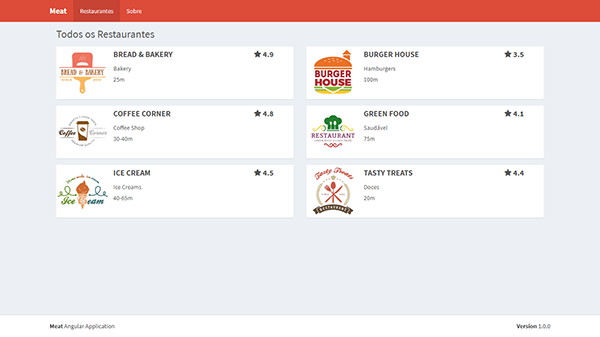
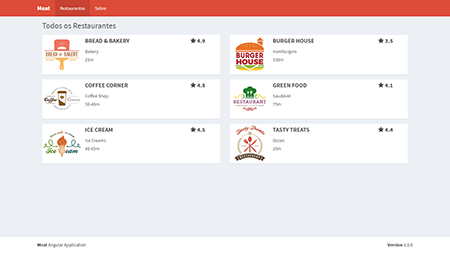
Readme fixed

diff --git a/README.md b/README.md
@@ -2,7 +2,7 @@
 
 
 
-# Images (600x340)
+# Images (450x253)
 
 ![](src/assets/img/ImageApp/img1.png  )
 ![](src/assets/img/ImageApp/img2.png )
